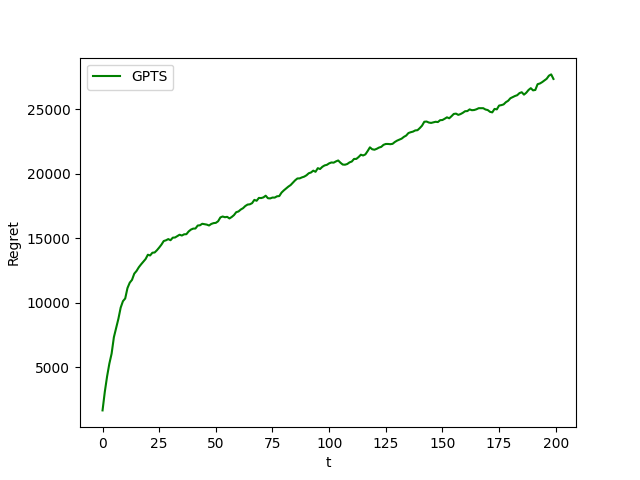
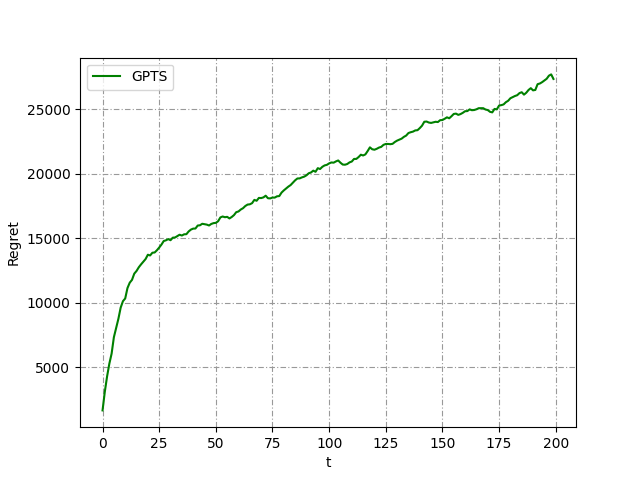
fit exp 5 6

diff --git a/experiments/experiment_6.py b/experiments/experiment_6.py
@@ -99,13 +99,12 @@ class Experiment6():
     def plot(self):
         #sns.distplot(np.array(p_arms))
 
-        
-        
         plt.figure(0)
         plt.ylabel('Regret')
         plt.xlabel('t')
-        plt.plot(np.cumsum(np.mean(self.opt - self.rewards_full, axis = 0)),'g')
-        plt.legend(["GPTS"])
+        plt.plot(np.cumsum(np.mean(self.opt - self.rewards_full, axis = 0)),'g', label="GPTS")
+        plt.legend(loc=0)
+        plt.grid(True, color='0.6', dashes=(5, 2, 1, 2))
         plt.savefig("img/experiments/experiment_6.png")
 
         #plt.show()

diff --git a/learners.py b/learners.py
@@ -223,9 +223,7 @@ class GPTS_learner_positive(Learner):
 
     def pull_arm(self, price_value):
         if (len(self.pulled_arms) < 10):
-            np.random.seed(123)
             return np.random.choice(self.n_arms)   # scelta uniforme nei primi 20 round  --> deve essere coerente con l'enviroment
-        np.random.seed(123)
         sample = np.random.normal(self.means,self.sigmas)
         sample = sample*(price_value - self.arms*4.44/(4.4 + self.arms**0.5)) # adjust sample wrt price value
         neg = []

diff --git a/experiments/experiment_5.py b/experiments/experiment_5.py
@@ -89,7 +89,8 @@ class Experiment5():
         plt.figure(0)
         plt.ylabel('Regret')
         plt.xlabel('t')
-        plt.plot(np.cumsum(np.mean(self.opt - self.rewards_full, axis = 0)),'g')
-        plt.legend(["GPTS"])
+        plt.plot(np.cumsum(np.mean(self.opt - self.rewards_full, axis = 0)),'g', label="GPTS")
+        plt.legend(loc=0)
+        plt.grid(True, color='0.6', dashes=(5, 2, 1, 2))
         plt.savefig("img/experiments/experiment_5.png")
         #plt.show()
